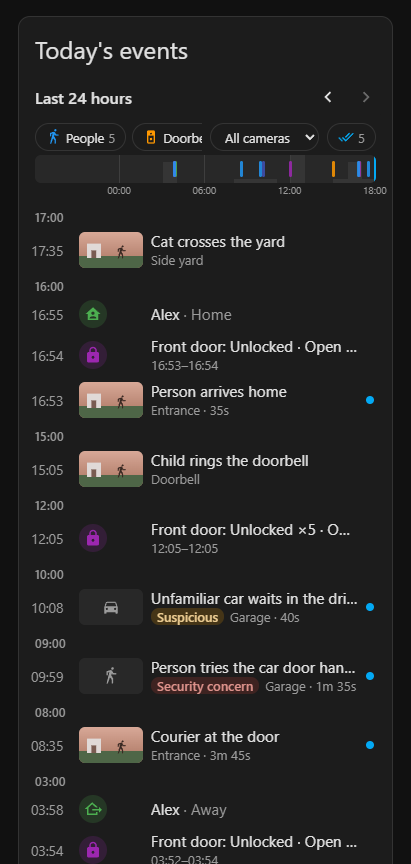
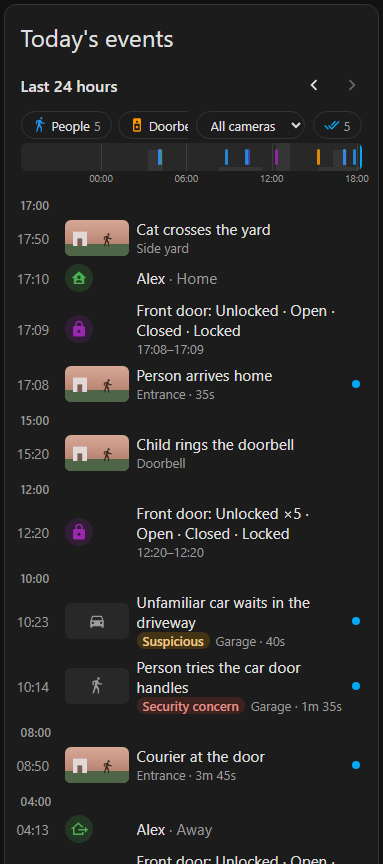
Keep titles readable at phone width (#37)
## Problem

Row titles were one line with an ellipsis. On a phone with `presence`
on, the title column is about 155 px, so a door burst read "Front door:
Unlock…" and AI titles were cut after two or three words ("Unfamiliar
car wait…"). A card of 481–600 px, such as a sections view column, was
worse: the camera/duration column on the right left the title 129 px, or
81 px in comfortable density with presence.

## Scope

Layout only. It helps every install viewed on a phone or in a sections
view column; wide cards look the same, since a short title still takes
one line.

## Change

- `src/styles.ts`:
- `.title` wraps at every width, clamped at 2 lines (3 for a burst row,
which gets a `burst` class in `src/ui/list.ts`). An opened row
(`aria-expanded="true"`) shows the whole title.
- The narrow row layout (camera, duration and actor on a line under the
title, threat badge with them, no meta column) now applies to cards up
to 600 px instead of 480.
- Comfortable density takes compact's 64×36 thumbnail on a phone screen
(`@media (max-width: 600px)`) or in a card up to 400 px, and keeps its
72 px rows. A 401–480 px card on a desktop keeps the 112×63 preview: the
card's width alone can't tell a large phone from a desktop column.
- PLAN.md §5.2, the README `density` row, a CHANGELOG `Fixed` entry, and
an entry in `docs/review-log.md`.
- `docs/mobile-dark.png` and `docs/details.png` were retaken from the
dev harness's example data, so they show the new layout. `docs/demo.gif`
[…]

diff --git a/test/ui/card.test.ts b/test/ui/card.test.ts
@@ -205,4 +205,127 @@ describe("phone width", () => {
       await page.viewport(1024, 900);
     }
   });
+
+  test("at 375 px a door burst and a long AI title read in full (PLAN §5.2)", async () => {
+    await page.viewport(375, 800);
+    try {
+      const m = await mount({ parent: document.body });
+      await until(() => ids(m).some((id) => id.startsWith("frigate:")));
+      await m.card.updateComplete;
+      const titleOf = (pred: (r: HTMLElement) => boolean, what: string) =>
+        must(rows(m).find(pred)?.querySelector<HTMLElement>(".title"), what);
+      // The example day has a four-step front door burst and an AI title of 36 characters;
+      // at this width neither fits on one line (presence is on, so the title column is narrow).
+      const burst = titleOf(
+        (r) => (r.dataset.id ?? "").startsWith("burst:") && r.textContent.includes("Front door"),
+        "burst title",
+      );
+      const car = titleOf(
+        (r) => r.textContent.includes("Unfamiliar car waits in the driveway"),
+        "AI title",
+      );
+      for (const title of [burst, car]) {
+        expect(title.getClientRects().length, "rendered").toBeGreaterThan(0);
+        // Nothing hidden sideways or below the line clamp.
+        expect(title.scrollWidth).toBeLessThanOrEqual(title.clientWidth + 1);
+        expect(title.scrollHeight).toBeLessThanOrEqual(title.clientHeight + 1);
+        // And it really wrapped: more than one line.
+        const line = parseFloat(getComputedStyle(title).lineHeight) || 20;
+        expect(title.clientHeight).toBeGreaterThan(line * 1.5);
+      }
+    } finally {
+      await page.viewport(1024, 900);
+    }
+  });
+
+  test("at 320 px titles clamp at 2 lines, a burst at 3, and an opened row shows all", async () => {
+    const m = await mount({ width: 320 });
+    await until(() => ids(m).some((id) => id.startsWith("frigate:")));
+    await m.card.updateComplete;
+    const rowWith = (text: string) =>
+      must(
+        rows(m).find((r) => r.textContent.includes(text)),
+        text,
+      );
+    // One line: the height of a short title (Alex coming home).
+    const line = must(rowWith("Alex").querySelector<HTMLElement>(".title")).clientHeight;
+    const lines = (el: HTMLElement) => Math.round(el.clientHeight / line);
+    // "Front door: Unlocked ×5 · Open · Closed · Locked" needs four lines here.
+    const burst = must(rowWith("Unlocked ×5").querySelector<HTMLElement>(".title"));
+    expect(lines(burst)).toBe(3);
+    expect(burst.scrollHeight).toBeGreaterThan(burst.clientHeight);
+    // "Unfamiliar car waits in the driveway" needs three.
+    const carRow = rowWith("Unfamiliar car waits in the driveway");
+    const car = must(carRow.querySelector<HTMLElement>(".title"));
+    expect(lines(car)).toBe(2);
+    expect(car.scrollHeight).toBeGreaterThan(car.clientHeight);
+
+    // Opened, the row shows the whole title.
+    await userEvent.click(carRow);
+    await m.card.updateComplete;
+    expect(car.scrollHeight).toBeLessThanOrEqual(car.clientHeight + 1);
+    expect(lines(car)).toBeGreaterThanOrEqual(3);
+  });
+
+  test("comfortable keeps its big preview in a narrow card on a desktop, the small one on a phone", async () => {
+    const measure = async (width = 440) => {
+      const m = await mount({ width, config: { density: "comfortable" } });
+      await until(() => ids(m).some((id) => id.startsWith("frigate:")));
+      await m.card.updateComplete;
+      const row = must(root(m).querySelector<HTMLElement>(".row.camera"), "camera row");
+      const t = must(row.querySelector<HTMLElement>(".thumb"), "thumbnail").getBoundingClientRect();
+      const out = {
+        thumb: [Math.round(t.width), Math.round(t.height)],
+        minHeight: getComputedStyle(row).minHeight,
+        tall: row.getBoundingClientRect().height >= 72,
+      };
+      m.remove();
+      mounted = undefined;
+      return out;
+    };
+    // PLAN §5.2: comfortable is 112×63 with 72 px rows. A 440 px card on a desktop screen
+    // (a sections view column) keeps that; on a phone, or in a card under 400 px, the
+    // thumbnail is compact's 64×36 and the row keeps its height.
+    const big = { thumb: [112, 63], minHeight: "72px", tall: true };
+    const small = { thumb: [64, 36], minHeight: "72px", tall: true };
+    expect(await measure()).toEqual(big);
+    // A card under 400 px on a desktop screen (the editor preview, a narrow column): small.
+    expect(await measure(360)).toEqual(small);
+    await page.viewport(440, 900);
+    try {
+      expect(await measure()).toEqual(small);
+    } finally {
+      await page.viewport(1024, 900);
+    }
+  });
+
+  test("from 481 to 600 px the title keeps room, the camera line under it", async () => {
+    // PLAN §5.2: up to 600 px the camera/duration text goes under the title. Before, a 481 px
+    // card put it in a column and left the title about 130 px (80 px in comfortable).
+    for (const density of ["compact", "comfortable"] as const) {
+      for (const width of [481, 560, 600]) {
+        const m = await mount({ width, config: { density } });
+        await until(() => ids(m).some((id) => id.startsWith("frigate:")));
+        await m.card.updateComplete;
+        const titles = rows(m).map((r) => must(r.querySelector<HTMLElement>(".title")).clientWidth);
+        expect(Math.min(...titles), `${density} at ${width} px`).toBeGreaterThanOrEqual(180);
+        const row = must(root(m).querySelector<HTMLElement>(".row.camera"));
+        const meta = must(row.querySelector<HTMLElement>(".meta"));
+        expect(getComputedStyle(meta).display).toBe("none");
+        // The camera and duration show under the title instead.
+        const sub = must(row.querySelector<HTMLElement>(".sub"), "camera line");
+        expect(getComputedStyle(sub).display).not.toBe("none");
+        expect(sub.textContent).toBe(meta.textContent);
+        expect(sub.textContent.trim()).not.toBe("");
+        m.remove();
+        mounted = undefined;
+      }
+    }
+    // Above 600 px the column is back.
+    const wide = await mount({ width: 601 });
+    await until(() => ids(wide).some((id) => id.startsWith("frigate:")));
+    await wide.card.updateComplete;
+    const meta = must(root(wide).querySelector<HTMLElement>(".row.camera .meta"));
+    expect(getComputedStyle(meta).display).not.toBe("none");
+  });
 });

diff --git a/src/styles.ts b/src/styles.ts
@@ -218,11 +218,26 @@ export const styles = css`
     flex-direction: column;
     min-width: 0;
   }
+  /* A long title wraps rather than being cut after a few words: up to 2 lines for an
+     event, 3 for a door's chain of changes. A short title stays one line, so a row only
+     grows when its title needs the room, and an opened row shows the whole title. */
   .title {
     overflow: hidden;
-    white-space: nowrap;
-    text-overflow: ellipsis;
+    overflow-wrap: anywhere;
+    display: -webkit-box;
+    -webkit-box-orient: vertical;
+    -webkit-line-clamp: 2;
+    line-clamp: 2;
     font-size: 0.95em;
+  }
+  .row.burst .title {
+    -webkit-line-clamp: 3;
+    line-clamp: 3;
+  }
+  .row[aria-expanded="true"] .title {
+    display: block;
+    -webkit-line-clamp: unset;
+    line-clamp: none;
   }
   .state {
     color: var(--secondary-text-color);
@@ -330,7 +345,27 @@ export const styles = css`
     font-size: 1em;
   }
 
-  @container (max-width: 480px) {
+  /* On a phone, or in any card up to 400 px, comfortable keeps its description line and row
+     height but takes compact's thumbnail, which leaves the title column room. Between 400
+     and 480 px the card's width can't tell a large phone from a sections view column on a
+     desktop, so the screen decides: the desktop column keeps the big preview. */
+  @media (max-width: 600px) {
+    .list.comfortable {
+      --reel-slot-width: 64px;
+      --reel-thumb-height: 36px;
+    }
+  }
+  @container (max-width: 400px) {
+    .list.comfortable {
+      --reel-slot-width: 64px;
+      --reel-thumb-height: 36px;
+    }
+  }
+
+  /* A card up to 600 px wide: the camera, duration and actor go to a line under the title
+     instead of a column on the right, and the threat badge with them. With that column, a
+     card of 481–600 px left the title under 130 px (80 px in comfortable with presence). */
+  @container (max-width: 600px) {
     .row {
       gap: 8px;
       padding: 4px 10px 4px 12px;

diff --git a/src/ui/list.ts b/src/ui/list.ts
@@ -210,7 +210,7 @@ function renderItem(view: CardView, item: TimelineItem): TemplateResult {
     );
     return html`<div class="item ${view.highlight === item.id ? "highlight" : ""}" role="listitem">
       <button
-        class="row plain ${burstBand.cls} ${view.presence ? "presence" : ""}"
+        class="row plain burst ${burstBand.cls} ${view.presence ? "presence" : ""}"
         style=${burstBand.style}
         data-id=${item.id}
         aria-expanded=${open ? "true" : "false"}

diff --git a/PLAN.md b/PLAN.md
@@ -675,17 +675,25 @@ Later:
 - The time column is fixed width with tabular numerals.
 - Camera rows have the animated preview. Non-camera rows have a 28 px icon disc in the
   same slot, so the text lines up.
-- The title is one line with an ellipsis. In compact mode the description appears only
-  when the row is expanded.
+- A long title wraps, up to 2 lines for an event and 3 for a burst's chain, and the row
+  grows only when it needs to; an opened row shows all of it. (Through 0.6.0 it was one line
+  with an ellipsis, which left a phone with the first word or two, and a 481 px card no
+  better.) In compact mode the description appears only when the row is expanded.
 - The right side shows the camera name, duration, a face/person chip, the actor when
-  known, and a blue dot when unreviewed.
+  known, and a blue dot when unreviewed. In a card up to 600 px wide (a phone, or a sections
+  view column) that text moves to a line under the title instead: with the column, a card of
+  481–600 px left the title under 130 px, 80 px in comfortable density with presence.
 - A Frigate GenAI threat level of 1 or more shows as a badge ("Suspicious", "Security
   concern") before the title, or at the start of the camera/duration line on narrow
   layouts so the title stays readable. A camera group row shows its highest level.
 - Context highlight (P2, done): a left edge colored by the context band covering the
   row's time (§5.6).
 
-**Comfortable:** about 72 px, a 112×63 preview, and a two-line description.
+**Comfortable:** about 72 px, a 112×63 preview, and a two-line description. On a phone (a
+screen up to 600 px wide, a media query) or in a card up to 400 px wide, the preview is
+compact's 64×36 and the row keeps its height, which leaves the title column room. Between
+400 and 480 px the card's own width can't decide: a large phone and a sections view column
+on a desktop both give such a card, and the desktop column keeps the big preview.
 
 ### 5.3 Grouping (`core/grouping.ts`, pure)
 

diff --git a/docs/review-log.md b/docs/review-log.md
@@ -213,3 +213,23 @@ Not changed: the note counts only fetched events, so it can't report events past
 provider's fetch limit. The recompute now groups and stabilizes every in-range event
 instead of the newest `max_events`; merging already handled all of them, and only noisy
 entities over long ranges would notice.
+
+**2026-11-14, readable titles at phone width.** Three rounds with a fresh Claude (Fable 5.2)
+context and GPT-6-sol (xhigh), each on the fixes of the round before. Changes:
+- The first version wrapped titles only in cards up to 480 px. At 481 px they were cut
+  again, and the meta column came back with them: the title kept 129 px (81 px in
+  comfortable density with presence). Titles now wrap at every width, clamped at 2 lines
+  (3 for a burst), an opened row shows all of it, and the camera/duration line goes under
+  the title in cards up to 600 px (§5.2), where the column-free layout gives the title
+  about as much room as the column layout does above.
+- Comfortable's small thumbnail: a 480 px container rule took the big preview from a
+  sections view column on a desktop, and a 400 px one missed large phones (a card of about
+  414 px). It now follows the screen (`@media (max-width: 600px)`) or a card up to 400 px;
+  between 400 and 480 px the card's own width can't tell a large phone from a desktop
+  column. Comfortable rows keep their 72 px height with the small thumbnail.
+- The tests didn't cover the clamp, comfortable density or the camera line under the
+  title; each now has a browser test that fails without its rule. The README screenshots
+  `mobile-dark.png` and `details.png` were retaken from the harness.
+
+Not changed: `docs/demo.gif` (540 px) still shows the camera column; retake it with the
+next recording. WebKit was checked by GPT only (Playwright's WebKit on Windows).

diff --git a/CHANGELOG.md b/CHANGELOG.md
@@ -9,6 +9,12 @@ All notable changes to this project are documented here. The project uses
 
 - A Frigate clip whose recording has been deleted ("The recording has been deleted.") no
   longer offers a Download button that can only fail.
+- Long titles wrap to a second line (a door's chain of changes to a third) instead of being
+  cut off after a few words, which on a phone left little more than the first word or two.
+  An opened row shows its whole title. On a phone, or in a card up to 400 px wide,
+  comfortable density uses the smaller thumbnail, and in a card up to 600 px wide (such as a
+  sections view column) the camera and duration go under the title instead of beside it;
+  both give the titles room.
 
 ## [0.6.0] - 2026-10-29
 

diff --git a/README.md b/README.md
@@ -159,7 +159,7 @@ cameras:
 |---|---|---|
 | `title` | none | Card title. |
 | `range` | `24h` | `24h` (rolling), `today`, or a number of hours such as `12h`. |
-| `density` | `compact` | `compact` or `comfortable` (bigger previews, two-line descriptions). |
+| `density` | `compact` | `compact` or `comfortable` (bigger previews, two-line descriptions; on a phone, or in a card up to 400 px wide, the previews stay compact-size). |
 | `preview` | `visible` | Animated previews: `visible`, `hover`, `still` or `off`. |
 | `language` | `auto` | `auto` (your HA language), `en` or `nb`. |
 | `max_events` | `200` | Most events to show, counted after the filters. A note under the list says how many older ones are hidden. |
